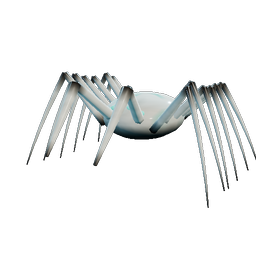
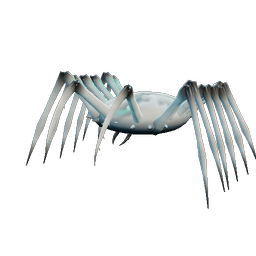
Act II Ch16: rim crawler holds its value on white sand (slate flanks and seams, brighter wounds)
Chalk on the Rim's white shallows was the plan sheet's high risk. The flanks go a wet
storm_slate toward the underside, the seams are slate, the chalk is weathered with
overcast_slate, and the wounds glow at 1.7. Portrait re-baked.

Claude-Session: https://claude.ai/code/session_01UPFyE7ob7hr4Skv4cw3rtN

Changed region(s): [[0.0938, 0.2812, 1.0, 0.75]]

diff --git a/assets_src/creatures/rim_crawler/build_rim_crawler.py b/assets_src/creatures/rim_crawler/build_rim_crawler.py
@@ -4,8 +4,9 @@ blender --background --factory-startup --python assets_src/creatures/rim_crawler
     --out assets/creatures/rim_crawler/rim_crawler.glb
 
 A palette variant of the tide crawler: Undertow-spawn crawlers bleached by days of white water. The tide crawler's
-build, rig and clips, re-coloured: a chalky carapace (mortar_white) with the spawn's lacquer_black left in the
-joints (each leg segment's ends, the body's underside and seams), and its wounds dimmer (materials.json). The base
+build, rig and clips, re-coloured: a chalky carapace (mortar_white, weathered with overcast_slate) going a wet
+storm_slate down its flanks and in its seams, with the spawn's lacquer_black left in the joints (each leg segment's
+ends and the body's underside), and its wounds glowing through the chalk (materials.json). The base
 build is imported, not copied, so a fix to the tide crawler reaches the rim crawler on its next rebuild.
 """
 
@@ -25,10 +26,17 @@ import creature_kit as ck  # noqa: E402
 
 SEED = 8291
 SW = {k: ck.hexrgb(v) for k, v in {
-    "mortar_white": "#E6E1D6", "lacquer_black": "#1D1916", "bone": "#E6DAC0",
+    "mortar_white": "#E6E1D6", "lacquer_black": "#1D1916", "bone": "#E6DAC0", "overcast_slate": "#6F7E8E",
+    "storm_slate": "#3E4A57",
 }.items()}
 CHALK = SW["mortar_white"] * 0.94
 BLACK = SW["lacquer_black"]
+# The value read on the Rim's white shallows (the Act II plan sheet: chalk on white sand, risk high): the flanks go a wet
+# grey-blue toward the underside, the plates' seams are slate, and the carapace's chalk is weathered with slate mottling
+WET_FLANK = SW["storm_slate"]
+FLANK_BAND = (0.07, -0.06)  # metres over the body's centre: the flank darkens from the first to the second
+SEAM = 0.85  # the seams' slate strength
+WEATHER = 0.3  # the most the slate mottles the chalk
 
 base.SEED = SEED
 base.PAL = dict(base.PAL)
@@ -48,10 +56,17 @@ def joints(mesh: ck.Mesh, rig: ck.Rig) -> None:
         if E[:, 1].min() >= 0.99:  # the glowing eyes
             continue
         b = bones[int(J[0])]
+        wet = np.zeros(len(P))
         if b.name == "body":
             low = ck.smoothstep(base.BODY[1] + 0.02, base.BODY[1] - 0.12, P[:, 1])
-            seam = ck.smoothstep(0.55, 0.95, np.abs(ck.fbm(P * 9.0, SEED + 1)) * 2.0) * 0.5
-            dark = np.maximum(low * 0.85, seam) * (1.0 - E[:, 1])
+            seam = ck.smoothstep(0.55, 0.95, np.abs(ck.fbm(P * 9.0, SEED + 1)) * 2.0) * SEAM
+            lit = 1.0 - E[:, 1]
+            weather = ck.smoothstep(0.0, 0.5, ck.fbm(P * 5.0, SEED + 2)) * WEATHER
+            flank = ck.smoothstep(base.BODY[1] + FLANK_BAND[0], base.BODY[1] + FLANK_BAND[1], P[:, 1])
+            C[:, :3] = ck.mix(C[:, :3], SW["overcast_slate"], (weather * lit)[:, None])
+            C[:, :3] = ck.mix(C[:, :3], WET_FLANK, (np.maximum(flank, seam) * lit)[:, None])
+            wet = flank * lit  # the flank is wet
+            dark = low * 0.85 * lit
         else:
             h, tl = np.asarray(b.head), np.asarray(b.tail)
             d = tl - h
@@ -60,7 +75,7 @@ def joints(mesh: ck.Mesh, rig: ck.Rig) -> None:
             if b.name.endswith("_b") and b.name.startswith("leg"):
                 dark = np.maximum(ck.smoothstep(0.22, 0.0, t), ck.smoothstep(0.7, 1.0, t))  # the tips dipped black
         C[:, :3] = ck.mix(C[:, :3], BLACK, dark[:, None])
-        C[:, 3] = C[:, 3] * (0.2 + 0.8 * dark)  # the chalk is dry; the black in the joints is still wet lacquer
+        C[:, 3] = C[:, 3] * (0.2 + 0.8 * np.maximum(dark, wet))  # the chalk is dry; the black joints are still wet
         E[:, 0] = np.clip(E[:, 0] + 0.4 * dark, 0.0, 1.0)
 
 

diff --git a/docs/kb/plan/act2/creatures/rim_crawler.md b/docs/kb/plan/act2/creatures/rim_crawler.md
@@ -26,13 +26,14 @@ Clip audit (tools/creatures/clip_audit.gd, 2026-10-30): worst slip 25.5 cm (ko),
 
 ## Battle-distance read
 Chalk-white on white shallows: **risk: high** for value. The tide crawler's dark lacquer is what read; bleached, the legs' shadows and the dim seams carry it. Consider a grey-blue wet underside and stronger seam glow in the Rim's flat light.
+**Done 2026-10-30 (creatures track, ADR 0205):** the flanks go a wet `storm_slate` toward the underside, the plate seams are slate, the chalk is weathered with `overcast_slate` mottling, and the wounds glow at energy 1.7 (from 1.0). Self-rendered in `ch16_rim_crawlers` on pale sand: slate flanks, black joints and cyan glows read; judge it again in the Rim's own grade.
 Encounters in data: `ch16_rim_crawlers` (no Act II arena is named yet: judge it in the arena the encounter gets).
 
 ## Reuse of existing generators
 build_tide_crawler (its 2026-10-29 primitive pass: carapace plates and seams, jointed legs, the planted-foot pin), so it inherited all of it.
 
 ## State against the final bar
-Model meets the bar (rebuilt with the tide crawler); its read on the Rim does not yet.
+Model meets the bar (rebuilt with the tide crawler); the value fix is in (slate flanks and seams, brighter wounds).
 
 ## Work at the gate (after `act1-complete`)
-Value check against the Rim; enemy `model` key.
+~~Value check~~ (done; re-judge in the Rim's grade); enemy `model` key.
